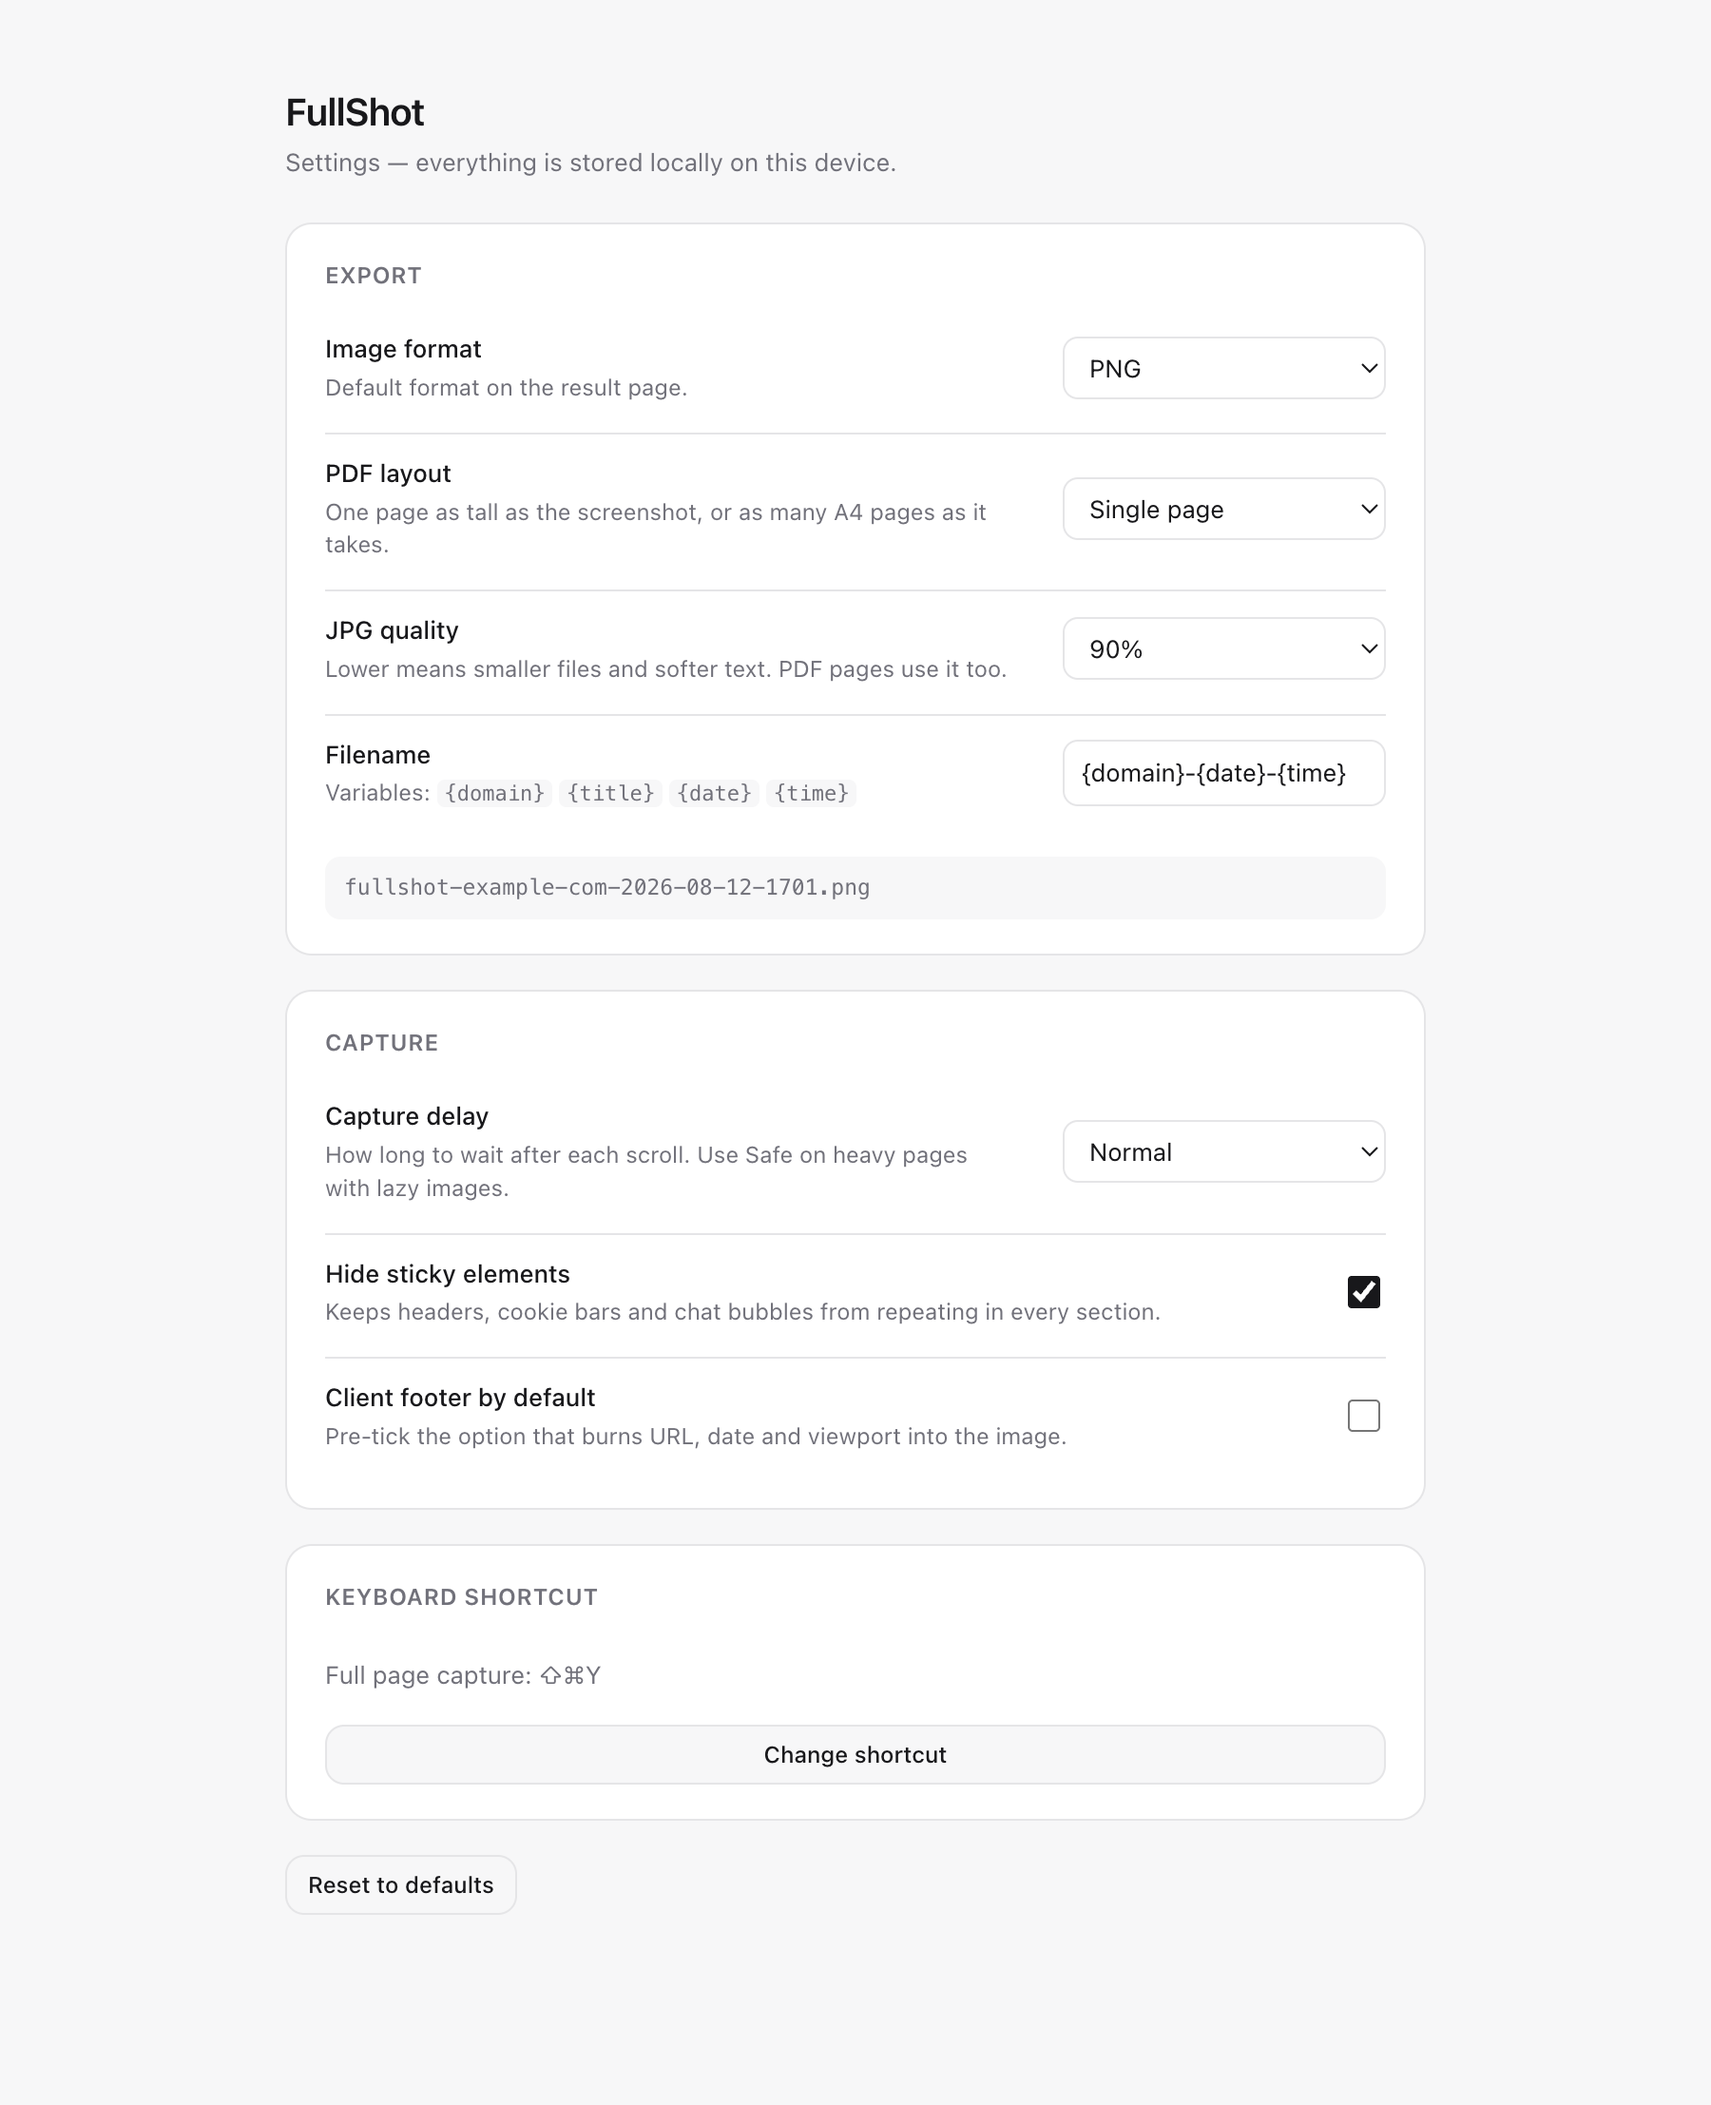
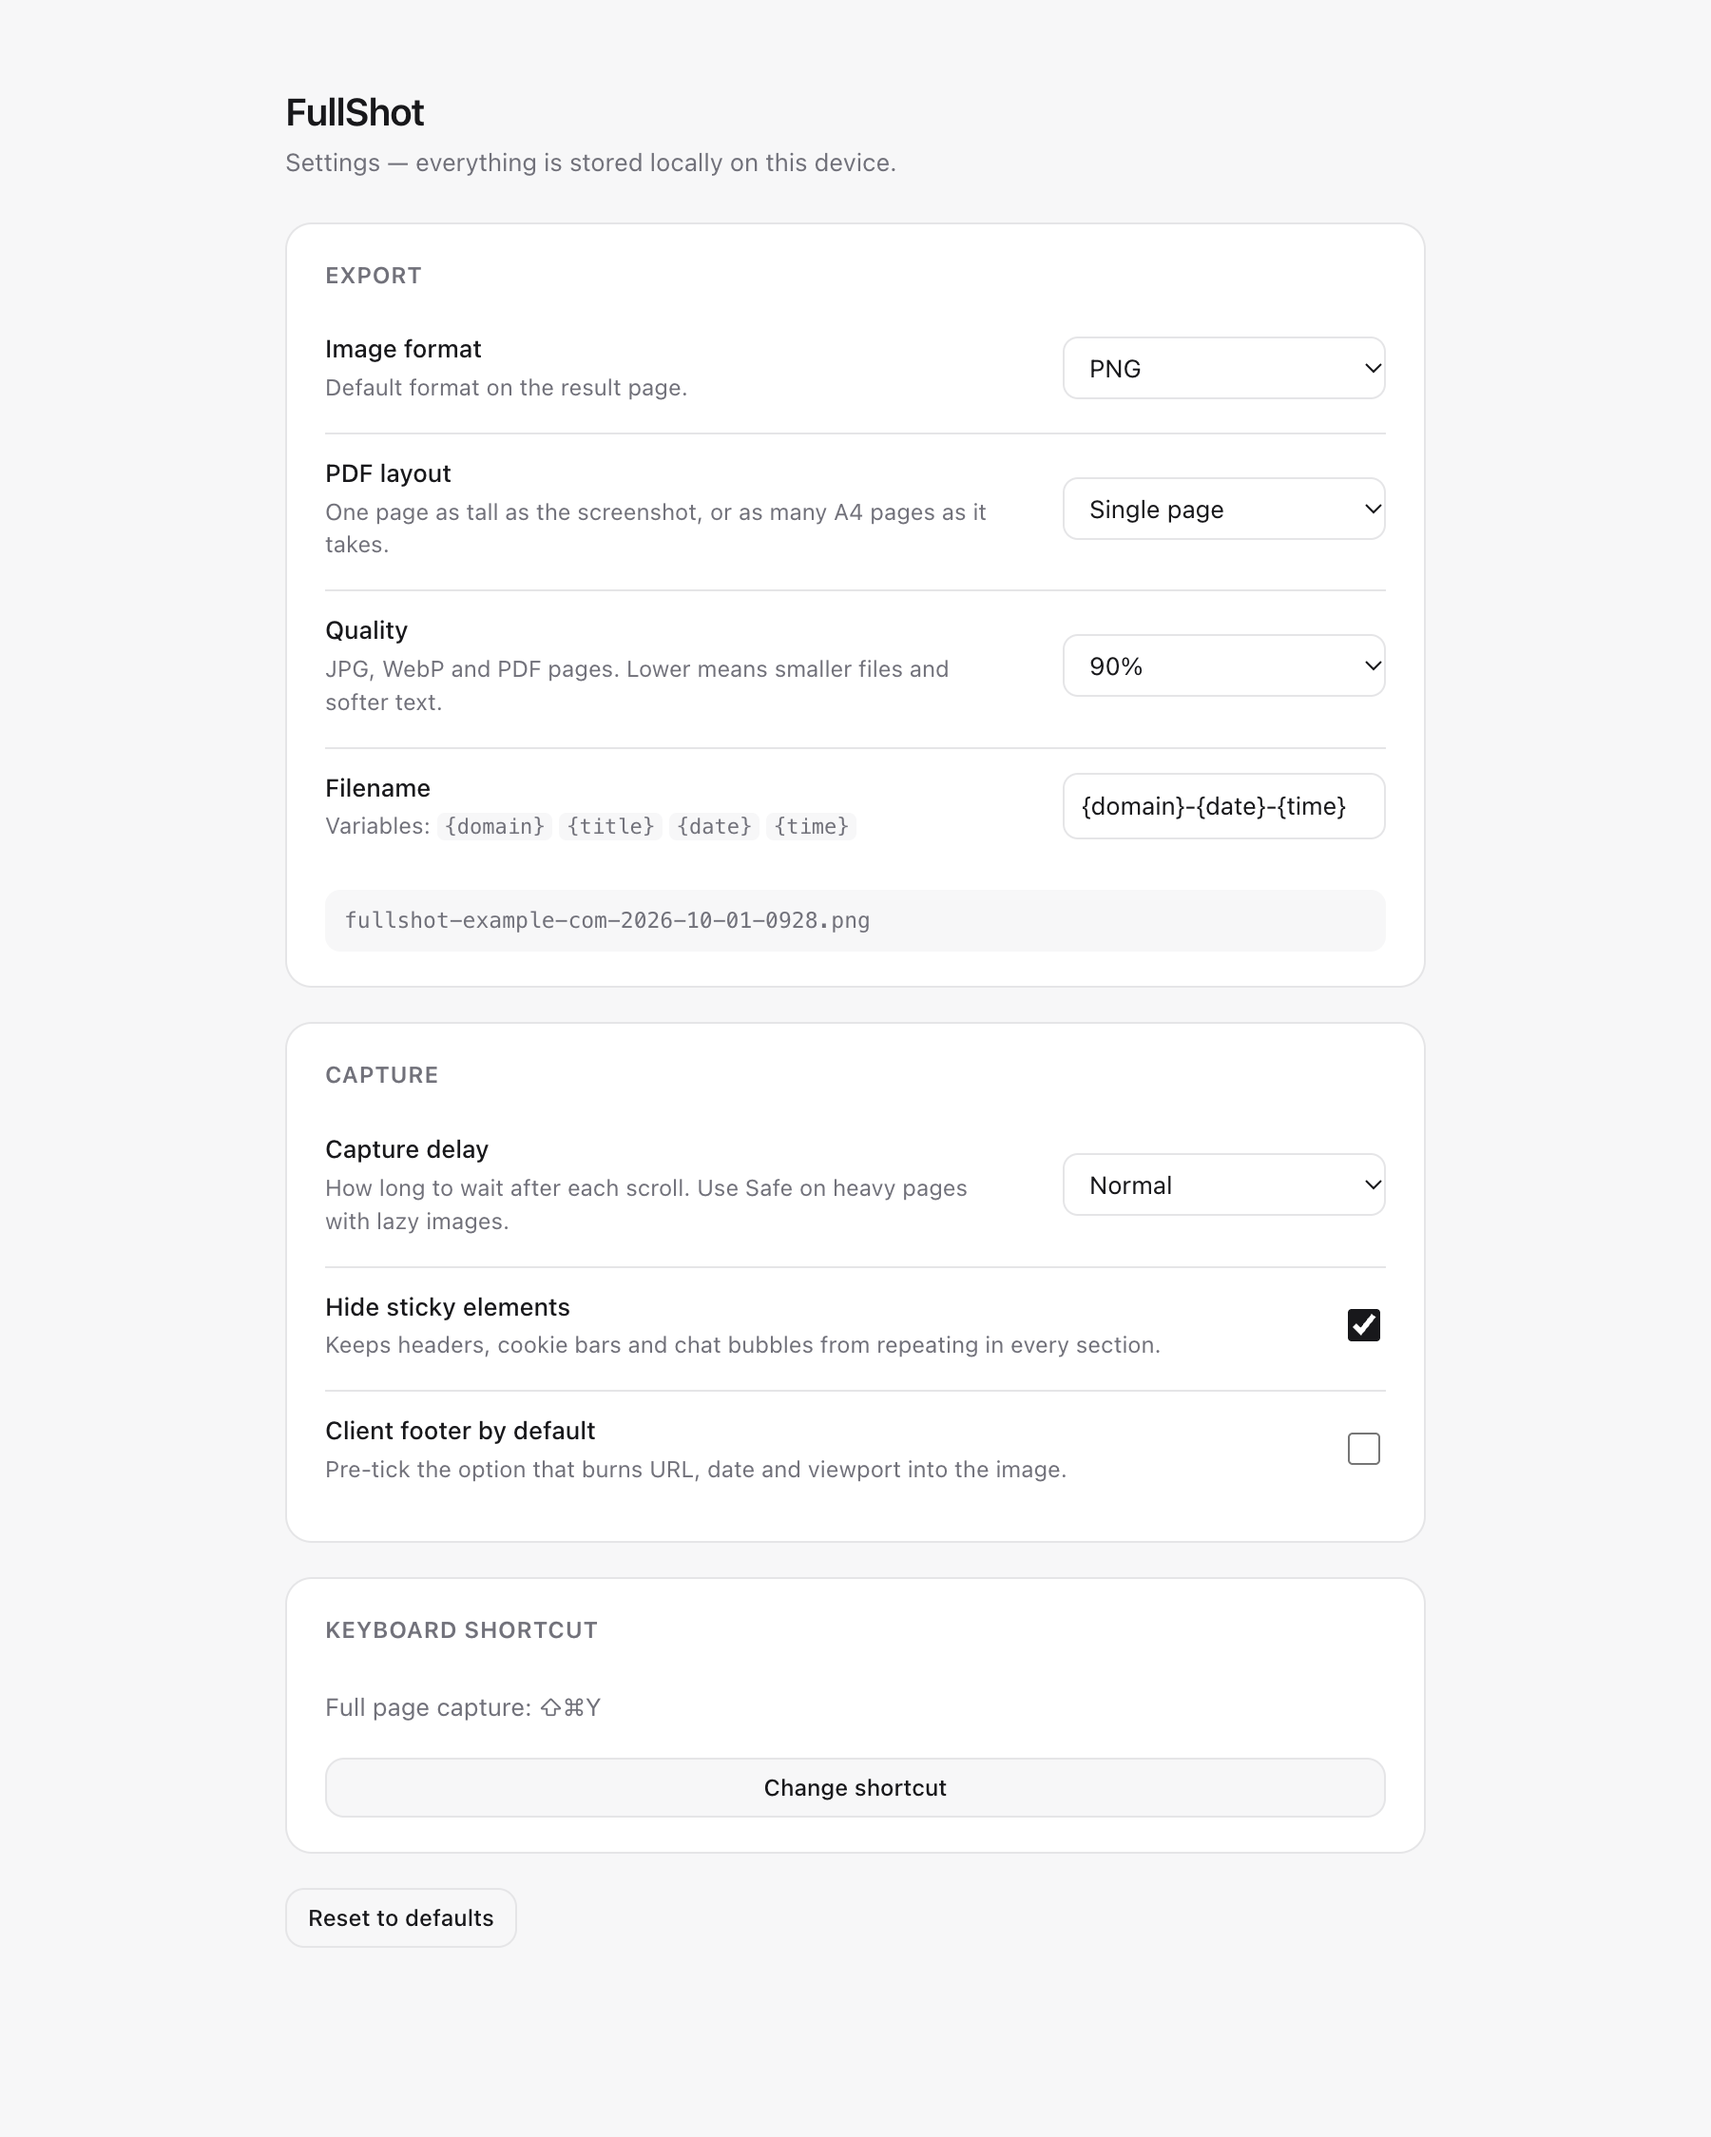
Add WebP export
WebP joins PNG, JPG and PDF in the result page and in settings, using the
same quality steps as JPG. On the stitch probe it comes out at 53 KB
against 114 KB for the equivalent JPG.

WebP stops at 16383 px a side and Chrome squashes anything larger to fit
without reporting it, so an oversized export is refused with a plain
message instead.

diff --git a/result/result.js b/result/result.js
@@ -264,7 +264,7 @@ async function compose({ format, quality, footer, pdfMode }) {
 
   if (!canvas) {
     if (format === FORMAT.PNG) return state.sourceBlob;
-    // JPG still has to go through a canvas, even with nothing drawn on top.
+    // JPG and WebP still have to go through a canvas, even with nothing drawn on top.
     const plain = bareCanvas();
     try {
       return await encode(plain, format, quality);
@@ -292,13 +292,21 @@ function bareCanvas() {
   return canvas;
 }
 
+const MIME = { [FORMAT.JPG]: 'image/jpeg', [FORMAT.WEBP]: 'image/webp' };
+
+/** WebP's format limit. Chrome squashes anything bigger to fit, without a word. */
+const WEBP_MAX_SIDE = 16383;
+
 function encode(canvas, format, quality) {
-  const mime = format === FORMAT.JPG ? 'image/jpeg' : 'image/png';
+  const mime = MIME[format] || 'image/png';
+  if (format === FORMAT.WEBP && Math.max(canvas.width, canvas.height) > WEBP_MAX_SIDE) {
+    return Promise.reject(new Error('This image is too large for WebP. Use PNG or JPG.'));
+  }
   return new Promise((resolve, reject) => {
     canvas.toBlob(
       (result) => (result ? resolve(result) : reject(new Error('The image could not be encoded.'))),
       mime,
-      format === FORMAT.JPG ? quality / 100 : undefined
+      mime === 'image/png' ? undefined : quality / 100
     );
   });
 }
@@ -374,7 +382,7 @@ for (const button of document.querySelectorAll('.seg[data-format]')) {
       other.classList.toggle('is-active', active);
       other.setAttribute('aria-checked', String(active));
     }
-    // Quality drives the JPEG encoder, and PDF pages are JPEG too.
+    // Quality drives the JPEG and WebP encoders, and PDF pages are JPEG too.
     $('quality-field').hidden = state.format === FORMAT.PNG;
     $('pdf-field').hidden = state.format !== FORMAT.PDF;
     $('copy').disabled = state.format === FORMAT.PDF;

diff --git a/settings/settings.html b/settings/settings.html
@@ -25,6 +25,7 @@
           <select id="format">
             <option value="png">PNG</option>
             <option value="jpg">JPG</option>
+            <option value="webp">WebP</option>
             <option value="pdf">PDF</option>
           </select>
         </div>
@@ -44,9 +45,9 @@
 
         <div class="row">
           <label for="jpgQuality">
-            <span class="row-title">JPG quality</span>
+            <span class="row-title">Quality</span>
             <span class="muted row-desc">
-              Lower means smaller files and softer text. PDF pages use it too.
+              JPG, WebP and PDF pages. Lower means smaller files and softer text.
             </span>
           </label>
           <select id="jpgQuality">

diff --git a/result/result.html b/result/result.html
@@ -54,6 +54,7 @@
           <div class="segmented" role="radiogroup" aria-label="Image format">
             <button class="seg is-active" data-format="png" type="button" role="radio" aria-checked="true">PNG</button>
             <button class="seg" data-format="jpg" type="button" role="radio" aria-checked="false">JPG</button>
+            <button class="seg" data-format="webp" type="button" role="radio" aria-checked="false">WebP</button>
             <button class="seg" data-format="pdf" type="button" role="radio" aria-checked="false">PDF</button>
           </div>
         </div>

diff --git a/shared/constants.js b/shared/constants.js
@@ -34,6 +34,7 @@ export const MODE = {
 export const FORMAT = {
   PNG: 'png',
   JPG: 'jpg',
+  WEBP: 'webp',
   PDF: 'pdf'
 };
 

diff --git a/README.md b/README.md
@@ -90,6 +90,9 @@ checkbox, or *Client footer by default* in Settings).
 
 - **PNG** — lossless, the default
 - **JPG** — 70 / 80 / 90 / 100%
+- **WebP** — same quality steps, typically half the size of the equivalent JPG.
+  WebP stops at 16 383 px a side, so the tallest captures must use PNG or JPG;
+  FullShot says so instead of letting Chrome silently squash the image to fit
 - **PDF** — one page as tall as the screenshot, or as many A4 pages as it takes
 - **Copy image** — PNG to the clipboard
 - **Download** — through `chrome.downloads`, named from your template
@@ -414,6 +417,7 @@ PASS  result page renders the capture
 PASS  annotated JPG export downloads                         Saved · 121.9 KB
 PASS  PDF export (single) downloads                          Saved · 122.7 KB
 PASS  PDF export (a4) downloads                              Saved · 128.7 KB
+PASS  WebP export downloads a real WebP        Saved · 53.2 KB  magic=RIFF/WEBP
 PASS  visible area capture completes
 PASS  visible capture equals one viewport                    {"h":557,"tiles":1}
 PASS  switching tab mid-capture aborts the run
